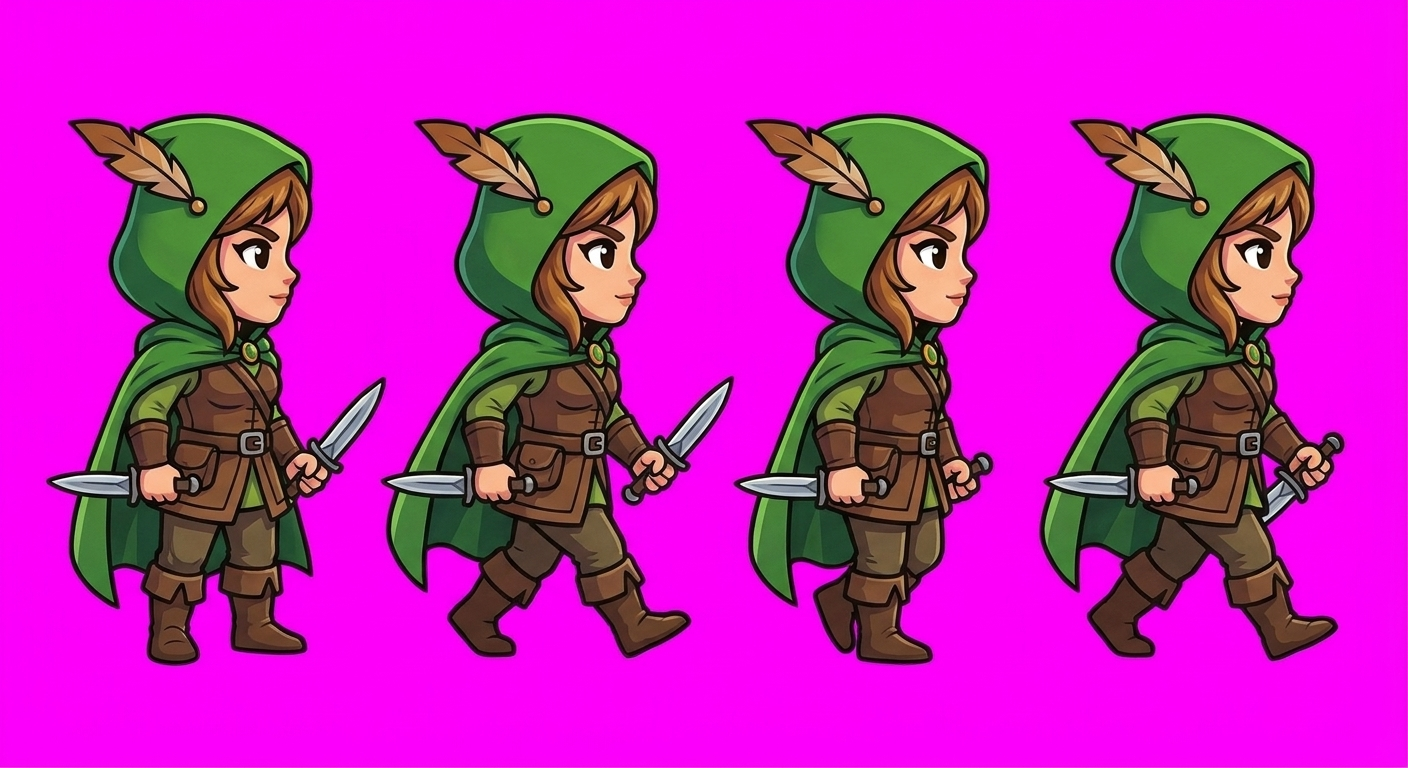
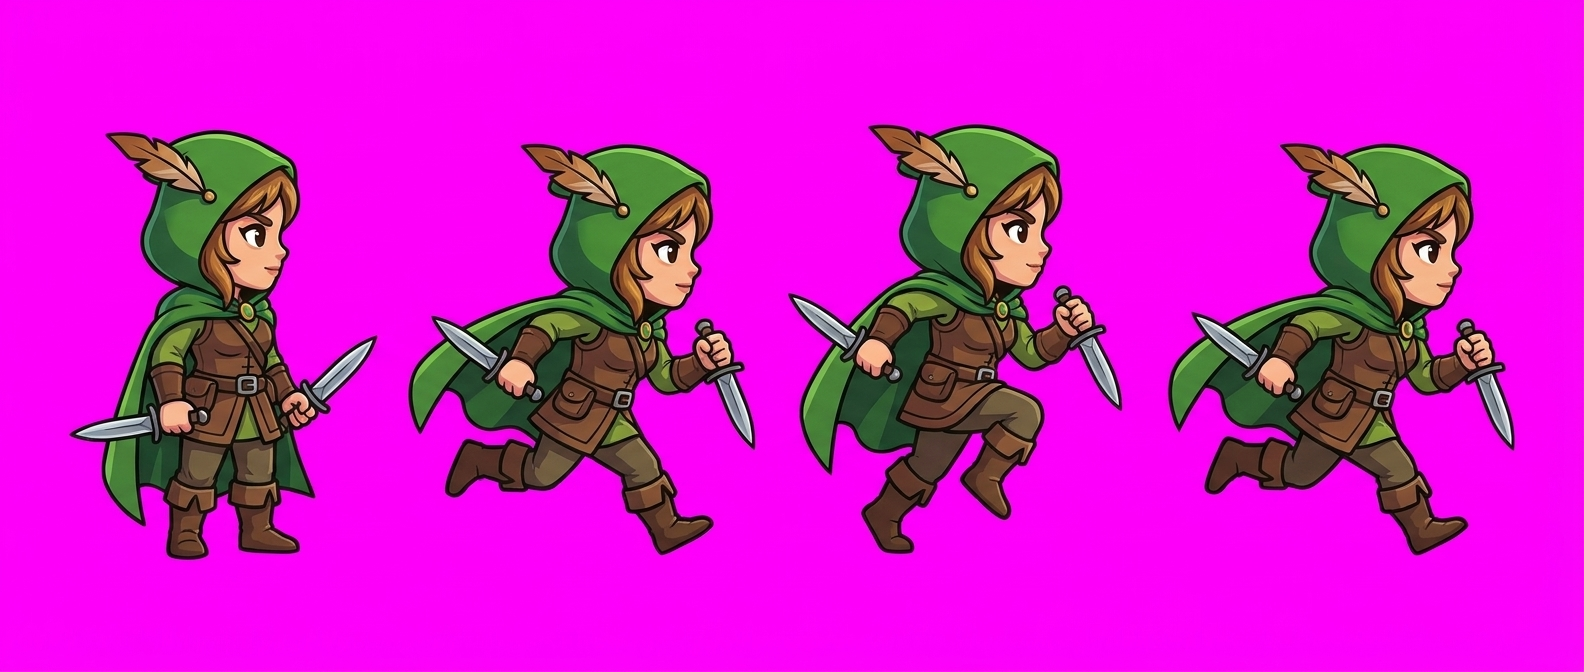
Heróis correndo, recorte sem cortar armas, machadada mais bonita e tremor circular
Claude-Session: https://claude.ai/code/session_01Pzwr3AcNttGrgNkJhUhbb6

diff --git a/src/systems/weapons.ts b/src/systems/weapons.ts
@@ -40,6 +40,8 @@ export class WeaponSystem {
   private tsunamiCount = 0;
   /** disparos da Bola de Fogo nv 20+: o Meteoro sai a cada 2 */
   private meteorCount = 0;
+  /** machadadas em andamento (limite de golpes simultâneos) */
+  private cleaving = 0;
   /** Passos Sísmicos: distância andada desde o último tremor */
   private walked = 0;
   private lastPos: { x: number; y: number } | null = null;
@@ -595,6 +597,8 @@ export class WeaponSystem {
    * nv 10: solta uma onda de choque; nv 20: o golpe vira um giro completo (redemoinho).
    */
   private fireCleave(w: WeaponRuntime): boolean {
+    // no máximo 4 golpes na tela ao mesmo tempo (velocidade de ataque altíssima): o próximo espera
+    if (this.cleaving >= 4) return false;
     const p = this.scene.player;
     const f = this.scene.facing;
     const reach = 62 * w.stats.area;
@@ -614,60 +618,92 @@ export class WeaponSystem {
     const g = grandeur(w.level);
     const spin = g >= 3;
     // arco largo: o machado desce de um lado ao outro (ou dá a volta toda no redemoinho)
-    const sweep = spin ? Math.PI * 2 : 2.2;
+    const sweep = spin ? Math.PI * 2 : 2.4;
+    const a0 = angle - sweep / 2;
     // mistura normal: luz aditiva sobre a grama puxa para o verde
     const gfx = scene.add.graphics().setDepth(LAYER.fx);
-    const color = w.level >= AWAKEN_EVERY ? 0xffd27a : 0xf6f1e4;
+    const awakened = w.level >= AWAKEN_EVERY;
+    const color = awakened ? 0xffcf6a : 0xe9eef5;
+    const edge = awakened ? 0xfff6d8 : 0xffffff;
+    // o próprio machado gira na ponta do golpe
+    const axe = scene.add.image(p.x, p.y, 'icon_greataxe').setDepth(LAYER.fx + 1).setScale(reach / 40);
+    const dur = spin ? 0.32 : 0.22;
+    const fade = 0.16;
     let t = 0;
-    const dur = spin ? 0.32 : 0.2;
     let struck = false;
     const hit = new Set<number>();
+    this.cleaving++;
+    const rx = reach * 0.85;
+    const ry = reach * 0.68;
+    const pt = (a: number, r: number) => ({ x: p.x + Math.cos(a) * rx * r, y: p.y - 4 + Math.sin(a) * ry * r });
     this.live.push((dt) => {
       t += dt;
       const k = Math.min(1, t / dur);
       const ease = 1 - (1 - k) ** 3;
-      const a0 = angle - sweep / 2;
       const a1 = a0 + sweep * ease;
+      const alpha = k < 1 ? 1 : Math.max(0, 1 - (t - dur) / fade);
+      // meia-lua: fina na cauda e grossa na lâmina, com borda clara de fio
       gfx.clear();
-      // rastro em meia-lua: mais grosso na ponta do machado
       const steps = 14;
-      for (let i = 0; i < steps; i++) {
-        const u = i / steps;
-        const aa = a0 + (a1 - a0) * u;
-        const ab = a0 + (a1 - a0) * (u + 1 / steps);
-        const alpha = (0.15 + 0.85 * u) * (k < 1 ? 1 : Math.max(0, 1 - (t - dur) / 0.15));
-        gfx.lineStyle(4 + 14 * u, color, alpha);
-        gfx.lineBetween(p.x + Math.cos(aa) * reach * 0.8, p.y - 4 + Math.sin(aa) * reach * 0.65, p.x + Math.cos(ab) * reach * 0.8, p.y - 4 + Math.sin(ab) * reach * 0.65);
+      const tail = Math.max(a0, a1 - 2.4);
+      for (const [thick, c, al] of [[0.5, color, 0.22], [0.32, color, 0.75], [0.12, edge, 0.95]] as [number, number, number][]) {
+        const outer: { x: number; y: number }[] = [];
+        const inner: { x: number; y: number }[] = [];
+        for (let i = 0; i <= steps; i++) {
+          const u = i / steps;
+          const a = tail + (a1 - tail) * u;
+          outer.push(pt(a, 1.05));
+          inner.push(pt(a, 1.05 - thick * u ** 1.4));
+        }
+        gfx.fillStyle(c, al * alpha).fillPoints([...outer, ...inner.reverse()], true);
       }
-      // dano em quem a lâmina já varreu
-      scene.queryEnemies(p.x, p.y, reach + 20, (e) => {
+      const tip = pt(a1, 0.9);
+      axe.setPosition(tip.x, tip.y).setRotation(a1 + Math.PI / 2).setAlpha(alpha);
+      // dano em quem a lâmina já varreu (só enquanto ela está descendo)
+      if (k < 1 || !struck) scene.queryEnemies(p.x, p.y, reach + 20, (e) => {
         if (hit.has(e.uid)) return;
         const dx = e.x - p.x;
         const dy = e.y - p.y;
-        const d = Math.hypot(dx, dy);
-        if (d > reach + e.radius) return;
-        const rel = Phaser.Math.Angle.Wrap(Math.atan2(dy, dx) - a0);
-        if (!spin && (rel < -0.3 || rel > (a1 - a0) + 0.3)) return;
-        if (spin && (rel + Math.PI * 2) % (Math.PI * 2) > a1 - a0 + 0.3) return;
+        if (Math.hypot(dx, dy) > reach + e.radius) return;
+        const rel = (Phaser.Math.Angle.Wrap(Math.atan2(dy, dx) - a0) + Math.PI * 2) % (Math.PI * 2);
+        const swept = a1 - a0;
+        if (rel > swept + 0.3 && rel < Math.PI * 2 - 0.3) return;
         hit.add(e.uid);
         this.hit(w, e, 1.8);
       });
       if (k >= 1 && !struck) {
         struck = true;
-        // impacto no chão onde o machado bate
+        // impacto no chão onde o machado bate: peso, mas sem sacudir demais a tela
         const ix = p.x + Math.cos(angle) * reach * 0.7;
         const iy = p.y + Math.sin(angle) * reach * 0.55;
-        scene.impact(ix, iy, 0xffe0a0, 1.4 + g * 0.3);
-        scene.cameras.main.shake(90, 0.004 + g * 0.002);
+        scene.impact(ix, iy, 0xffe0a0, 1.1 + g * 0.2);
+        // poeira só quando não há muitos efeitos na tela (desempenho)
+        if (this.live.length < 40) this.dust(ix, iy, 4 + g);
+        scene.cameras.main.shake(70, 0.0015);
         sfx('boom');
         if (g >= 1) this.quakeCracks(ix, iy, 3 + g, reach * 0.6);
         if (g >= 2) this.shockwave(w, ix, iy, reach * 1.3);
       }
-      if (t < dur + 0.15) return true;
+      if (t < dur + fade) return true;
       gfx.destroy();
+      axe.destroy();
+      this.cleaving--;
       return false;
     });
     sfx('whoosh');
+  }
+
+  /** Poeira subindo do chão (machadada). */
+  private dust(x: number, y: number, n: number) {
+    for (let i = 0; i < n; i++) {
+      const d = this.scene.add.image(x + (Math.random() - 0.5) * 20, y + (Math.random() - 0.5) * 8, 'atlas', frameName('glow'))
+        .setTint(0xc8a878).setAlpha(0.55).setScale(0.25 + Math.random() * 0.2).setDepth(LAYER.fx);
+      const a = Math.PI + Math.random() * Math.PI;
+      this.scene.tweens.add({
+        targets: d, x: d.x + Math.cos(a) * 22, y: d.y + Math.sin(a) * 14, scale: d.scale * 1.8, alpha: 0,
+        duration: 380 + Math.random() * 200, ease: 'Quad.Out', onComplete: () => d.destroy(),
+      });
+    }
   }
 
   /** Rachaduras curtas saindo de um ponto (só visual). */
@@ -1054,44 +1090,53 @@ export class WeaponSystem {
     if (this.walked < step) return;
     this.walked = Math.min(this.walked - step, step);
     const g = grandeur(w.level);
-    for (let i = 0; i < w.stats.amount; i++) {
-      const a = Math.random() * Math.PI * 2;
-      const d = (30 + Math.random() * 50) * w.stats.area;
-      this.quakeAt(w, p.x + Math.cos(a) * d, p.y + Math.sin(a) * d * 0.8, g, false);
-    }
+    // um tremor em círculo com o herói no centro; quantidade extra = anéis maiores logo depois
+    for (let i = 0; i < w.stats.amount; i++) this.scene.time.delayedCall(i * 160, () => this.quakeRing(w, g, 1 + i * 0.45, false));
   }
 
-  private quakeAt(w: WeaponRuntime, x: number, y: number, g: number, aftershock: boolean) {
+  /** Tremor circular em volta do herói: rachaduras saindo dele, anel de espinhos e dano no círculo todo. */
+  private quakeRing(w: WeaponRuntime, g: number, scale: number, aftershock: boolean) {
     const s = w.stats;
-    const radius = 28 * s.area * (g >= 1 ? 1.25 : 1) * (aftershock ? 0.8 : 1);
-    // rachaduras curtas saindo do centro + espinhos em volta
+    const p = this.scene.player;
+    const x = p.x;
+    const y = p.y + 4;
+    const radius = 46 * s.area * (g >= 1 ? 1.2 : 1) * scale * (aftershock ? 1.35 : 1);
+    // onda de terra correndo do herói até a borda do círculo
+    const ring = this.scene.add.image(x, y, 'atlas', frameName('aura')).setTint(0x8a6238).setAlpha(0.7).setDepth(LAYER.groundFx).setScale(0.1, 0.08);
+    this.scene.tweens.add({ targets: ring, scaleX: (radius * 2.1) / 96, scaleY: (radius * 1.6) / 96, alpha: 0, duration: 300, ease: 'Quad.Out', onComplete: () => ring.destroy() });
+    // rachaduras do herói para fora
     const gfx = this.scene.add.graphics().setDepth(LAYER.groundFx);
-    for (let k = 0; k < 6; k++) {
-      let a = (k / 6) * Math.PI * 2 + Math.random() * 0.4;
-      let cx = x;
-      let cy = y;
+    const n = 7;
+    for (let k = 0; k < n; k++) {
+      let a = (k / n) * Math.PI * 2 + Math.random() * 0.5;
+      let cx = x + Math.cos(a) * 10;
+      let cy = y + Math.sin(a) * 8;
       for (let j = 0; j < 3; j++) {
-        a += (Math.random() - 0.5) * 0.7;
-        const nx = cx + Math.cos(a) * radius * 0.35;
-        const ny = cy + Math.sin(a) * radius * 0.28;
-        gfx.lineStyle(4 * s.area, 0x2a180c, 0.85).lineBetween(cx, cy, nx, ny);
+        a += (Math.random() - 0.5) * 0.6;
+        const nx = cx + Math.cos(a) * radius * 0.3;
+        const ny = cy + Math.sin(a) * radius * 0.24;
+        gfx.lineStyle((3.5 - j) * s.area, 0x2a180c, 0.85).lineBetween(cx, cy, nx, ny);
         cx = nx;
         cy = ny;
       }
     }
     this.scene.tweens.add({ targets: gfx, alpha: 0, delay: 250, duration: 350, onComplete: () => gfx.destroy() });
-    this.spike(x, y + 2, s.area * 1.1);
-    for (let k = 0; k < 5; k++) {
-      const a = (k / 5) * Math.PI * 2;
-      this.spike(x + Math.cos(a) * radius * 0.75, y + Math.sin(a) * radius * 0.6, s.area * 0.7);
+    // espinhos brotando na borda do círculo, em sequência
+    const spikes = Math.round(8 * scale * (aftershock ? 1.3 : 1));
+    const start = Math.random() * Math.PI * 2;
+    for (let k = 0; k < spikes; k++) {
+      const a = start + (k / spikes) * Math.PI * 2;
+      this.scene.time.delayedCall(k * 12, () => this.spike(x + Math.cos(a) * radius * 0.85, y + Math.sin(a) * radius * 0.68, s.area * 0.75));
     }
-    this.burst(w, x, y, radius, aftershock ? 0.6 : 1, 60);
-    if (g >= 1) this.scene.cameras.main.shake(90, 0.003);
+    this.burst(w, x, y, radius, aftershock ? 0.6 : 1, 70);
     sfx('boom');
     if (aftershock) return;
-    // despertado: tremor secundário no mesmo lugar; nv 20: abre também uma fissura
-    if (g >= 2) this.scene.time.delayedCall(350, () => this.quakeAt(w, x, y, g, true));
-    if (g >= 3) this.crack(w, x, y, Math.random() * Math.PI * 2, 120 * s.area, g, 1);
+    // despertado: um segundo tremor, mais largo; nv 20: fissuras correm para fora em quatro direções
+    if (g >= 2) this.scene.time.delayedCall(350, () => this.quakeRing(w, g, scale, true));
+    if (g >= 3) {
+      const a0 = Math.random() * Math.PI * 2;
+      for (let k = 0; k < 4; k++) this.crack(w, x, y, a0 + (k * Math.PI) / 2, 120 * s.area, g, 1);
+    }
   }
 
   /** Registra dano de projéteis na estatística da arma dona. */

diff --git a/src/art/motion.ts b/src/art/motion.ts
@@ -17,8 +17,8 @@ const STEP = ['walk_a', 'walk_mid', 'walk_b', 'walk_mid'];
 // chefe: o quadro parado faz o papel das pernas juntas
 const STRIDE = ['walk_a', 'idle', 'walk_b', 'idle'];
 const GAITS: Record<string, Gait> = {
-  // herói: passo com o pé de perto, pernas juntas, passo com o pé de longe, pernas juntas
-  hero: { fps: 8, cycle: STEP, squash: 0.03, tilt: 0.03 },
+  // herói correndo: passo com o pé de perto, passagem, passo com o pé de longe, passagem
+  hero: { fps: 10, cycle: STEP, squash: 0.035, tilt: 0.03 },
   slime: { fps: 6, cycle: ['walk_a', 'walk_mid', 'walk_b', 'walk_a'], squash: 0.05, tilt: 0 },
   bat: { fps: 12, cycle: STEP, squash: 0.03, tilt: 0.05 },
   goblin: { fps: 8, cycle: STEP, squash: 0.03, tilt: 0.05 },

diff --git a/tests/logic.test.ts b/tests/logic.test.ts
@@ -31,8 +31,8 @@ describe('arte', () => {
     ];
     for (const key of keys) expect(has(key), key).toBe(true);
   });
-  it('caminhada do herói alterna os pés: passo, pernas juntas, outro passo', () => {
-    const seq = [0.01, 0.13, 0.26, 0.38, 0.51].map((t) => walkPose('hero', t).slot);
+  it('corrida do herói alterna os pés: passo, passagem, outro passo', () => {
+    const seq = [0.01, 0.11, 0.21, 0.31, 0.41].map((t) => walkPose('hero', t).slot);
     expect(seq).toEqual(['walk_a', 'walk_mid', 'walk_b', 'walk_mid', 'walk_a']);
     expect(walkPose('hero', 1, false).slot).toBe('idle');
   });

diff --git a/scripts/process-art.py b/scripts/process-art.py
@@ -190,6 +190,17 @@ def slice_sheet(path, n):
         sample = pts[::max(1, len(pts) // 40)]
         nx, _ = min(edge, key=lambda e: min((e[0] - x) ** 2 + (e[1] - y) ** 2 for x, y in sample))
         owner[i] = column(nx)
+    # figura que só passa um pouco da coluna (a ponta de uma espada, uma asa) vai inteira para o
+    # quadro onde está quase toda; só figuras encostadas de verdade são divididas pelas colunas
+    for i in big:
+        per = [0] * n
+        for x, _ in regions[i - 1]:
+            per[column(x)] += 1
+        dom = max(range(n), key=lambda k: per[k])
+        if per[dom] >= len(regions[i - 1]) * 0.85:
+            owner[i] = dom
+        else:
+            print(f'  aviso: {path.name}: figuras encostadas divididas entre os quadros', [k for k in range(n) if per[k]])
     frames = []
     for k in range(n):
         m = Image.new('L', (w // q, h // q))

diff --git a/docs/GDD.md b/docs/GDD.md
@@ -30,9 +30,10 @@ Dados em `src/data/elements.ts`; lógica em `src/systems/elements.ts`.
 - Armas elementais com padrões próprios: Onda (Água, varre e empurra), Fissura (Terra, rachaduras com espinhos), Tornado (Ar, puxa e fere). Carta Catalisador (potência elemental).
 - Grandeza: todo ataque cresce em faixas de nível (5, 10 = despertar, 20) até formas grandiosas (Tsunami, Terremoto, tornado gigante).
 - Reações marcantes: título grande, onda de choque, clarão, véu de cor na tela, som e uma animação própria de 4 quadros no chão ou em volta do alvo, sem tampar os inimigos (erupção de lava, cristais de gelo nos pés, raios em ziguezague, colunas de vapor, poça de lama, redemoinho de areia).
-- Pode haver mais de um ataque por elemento, desde que diferentes: Raio de Luz (laser que rebate nas bordas; o início acompanha o herói, a direção fica fixa), Bola de Fogo (explosão; nv 10 se divide; nv 20 Meteoro), Passos Sísmicos (tremores ao andar; nv 10 tremor secundário; nv 20 abre fissuras), Martelo do Trovão (Raio; arremessado em linha no inimigo mais próximo, carrega os atingidos e volta para a mão; nv 5 maior, nv 10 trovão no ponto de volta, nv 20 descarga ao pegar de volta).
+- Pode haver mais de um ataque por elemento, desde que diferentes: Raio de Luz (laser que rebate nas bordas; o início acompanha o herói, a direção fica fixa), Bola de Fogo (explosão; nv 10 se divide; nv 20 Meteoro), Passos Sísmicos (ao andar, tremores em círculo com o herói no centro; nv 10 segundo tremor mais largo; nv 20 abre fissuras em quatro direções), Martelo do Trovão (Raio; arremessado em linha no inimigo mais próximo, carrega os atingidos e volta para a mão; nv 5 maior, nv 10 trovão no ponto de volta, nv 20 descarga ao pegar de volta).
 - Armas de corpo a corpo miram sozinhas: a Espada golpeia o inimigo mais próximo ao alcance (senão, a direção do joystick); o Machado do Bárbaro é uma machadada de duas mãos (nv 5 racha o chão, nv 10 onda de choque, nv 20 redemoinho de 360°). As Adagas vão no inimigo mais próximo.
-- Heróis: o Cavaleiro tem espada e escudo; a caminhada dos heróis tem 4 tempos (pé de perto à frente, pernas juntas, pé de longe à frente, pernas juntas).
+- Heróis: o Cavaleiro tem espada e escudo; os heróis correm, com 4 tempos (pé de perto à frente, passagem, pé de longe à frente, passagem).
+- Tremor de tela: leve nos golpes comuns (peso da machadada); forte só em coisas raras e poderosas (chefe, Terremoto da Fissura).
 - Variantes elementais por troca de cor: Slime de Fogo, Slime d'Água, Goblin da Terra, Morcego do Vento.
 - Estatísticas pós-partida mostram o dano por reação.
 - Pendente: reações triplas, Luz/Trevas, resistências mostradas antes da partida.

diff --git a/README.md b/README.md
@@ -14,7 +14,7 @@ RPG 2D de sobrevivência em estilo cartoon para Android e iOS (e navegador). Esc
 O design completo está em [docs/GDD.md](docs/GDD.md).
 
 - **Sem limite de armas:** qualquer arma pode aparecer a qualquer momento, e todas sobem de nível sem teto. A cada 10 níveis a arma **desperta** (dano ×1,5, +1 quantidade, visual dourado).
-- **Armas modulares** (`src/data/weapons.ts`): padrão de ataque + elemento + tags + ciclo de crescimento. Hoje: Varinha, Espada (no inimigo mais próximo ao alcance, senão na direção do joystick), Machado (machadada de duas mãos), Orbe, Aura de Fogo, Raio, Adagas (no inimigo mais próximo), Onda (Água), Fissura (Terra), Tornado (Ar), Raio de Luz (laser que rebate nas bordas da tela; o início acompanha o herói), Bola de Fogo (explode em área), Passos Sísmicos (tremores enquanto você anda) e Martelo do Trovão (vai em linha carregando os inimigos e volta para a mão).
+- **Armas modulares** (`src/data/weapons.ts`): padrão de ataque + elemento + tags + ciclo de crescimento. Hoje: Varinha, Espada (no inimigo mais próximo ao alcance, senão na direção do joystick), Machado (machadada de duas mãos), Orbe, Aura de Fogo, Raio, Adagas (no inimigo mais próximo), Onda (Água), Fissura (Terra), Tornado (Ar), Raio de Luz (laser que rebate nas bordas da tela; o início acompanha o herói), Bola de Fogo (explode em área), Passos Sísmicos (tremores em círculo em volta do herói enquanto ele anda) e Martelo do Trovão (vai em linha carregando os inimigos e volta para a mão).
 - **Grandeza por nível**: os ataques começam simples e crescem em faixas (nv 5, 10 = despertar, 20). Ex.: Onda → Maremoto → Tsunami; Fissura → Terremoto → abalo na tela toda; Tornado → Ciclone → tornado gigante; Espada despertada solta a lâmina; Raio despertado salta entre inimigos; Machado racha o chão → onda de choque → redemoinho (giro completo); Martelo: maior → trovão na volta → descarga ao pegar de volta.
 - **Elementos** (`src/data/elements.ts`, Marco 2): vantagens Água > Fogo > Ar > Terra > Água, efeitos por chance (Queimando, Encharcado, Desequilibrado, Fraturado) e 6 reações quando dois efeitos se encontram (Lava, Gelo, Raio, Vapor, Lama, Areia). Inimigos com variantes elementais.
 - **Bônus de tags** (`src/data/tags.ts`): várias armas com a mesma tag (Projétil, Corpo a corpo, Feitiço, Área...) fortalecem todas elas.

diff --git a/docs/ART_PLAN.md b/docs/ART_PLAN.md
@@ -69,3 +69,9 @@ Toda criatura nova segue o modelo do seu papel (`FRAME_TEMPLATES` em `art/manife
 - Papel `vfx` no modelo de quadros: 4 quadros numa folha só (formato 21:9), descritos em `poses` e gerados com o cavaleiro como referência de estilo (`vfx_lava`, `vfx_ice`, `vfx_steam`, `vfx_mud`, `vfx_sand`, `vfx_explosion`).
 - No jogo, `ElementSystem.vfx()` toca a sequência de quadros com tempos próprios, no chão ou seguindo um inimigo.
 - Evitar brilho difuso em volta da arte gerada: mistura com o magenta e vira halo rosado (pedir "crisp outlines, no soft glow").
+
+## Recorte das folhas
+
+- Uma figura que passa só um pouco da sua coluna (ponta de espada, asa, cajado) vai inteira para o próprio quadro; só figuras encostadas de verdade são divididas, e o `process-art.py` avisa quando isso acontece.
+- Folhas com 4 quadros ou mais são geradas em formato largo (21:9): no formato quadrado a IA as desenhava em grade 2×2.
+- Heróis: o ciclo de movimento é de corrida (`RUN` em `art/manifest.mjs`).
